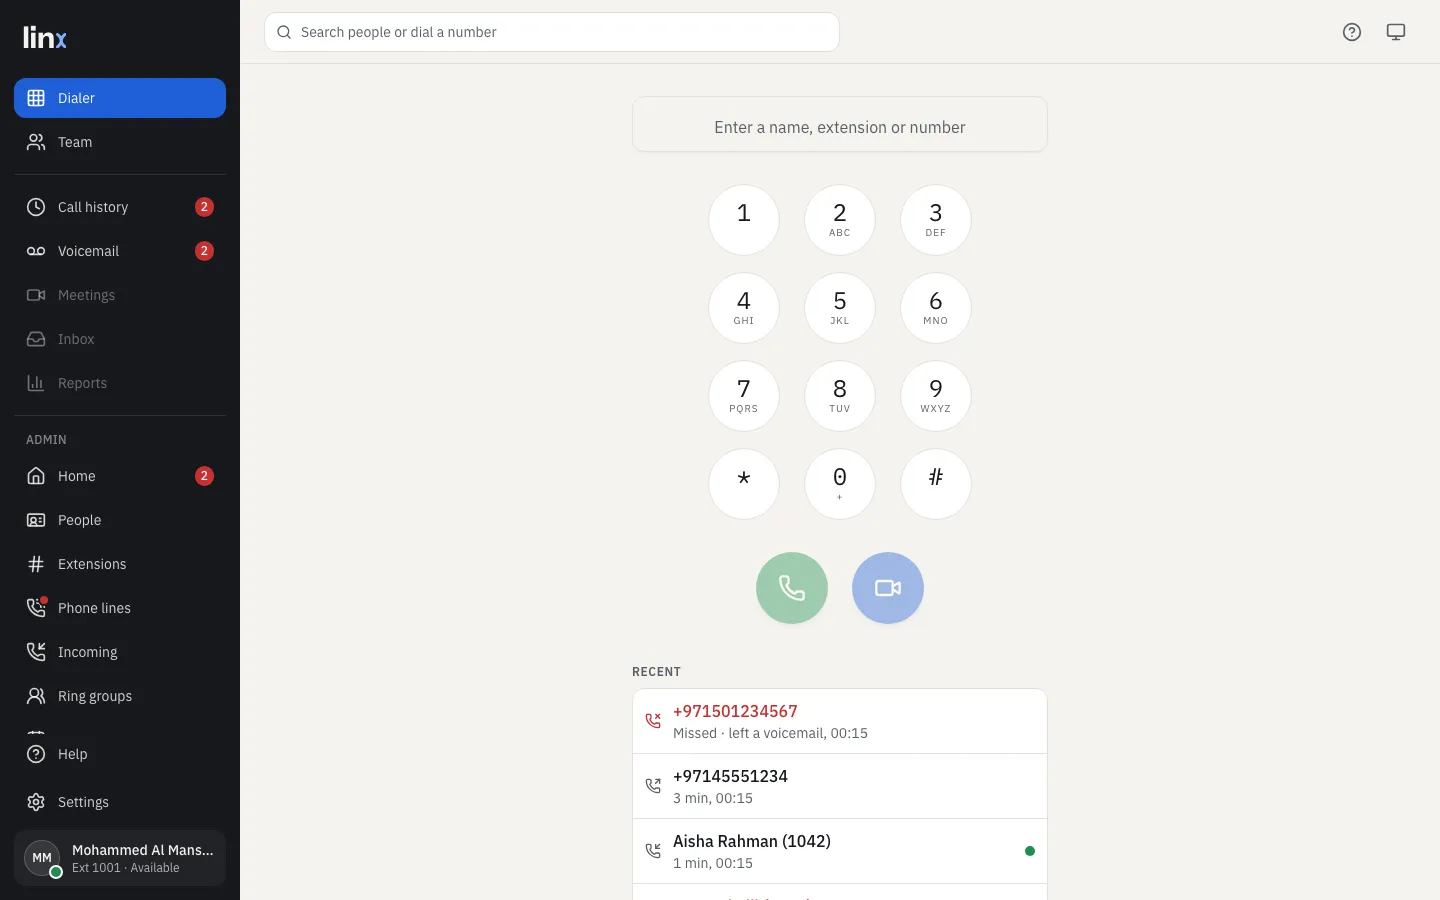
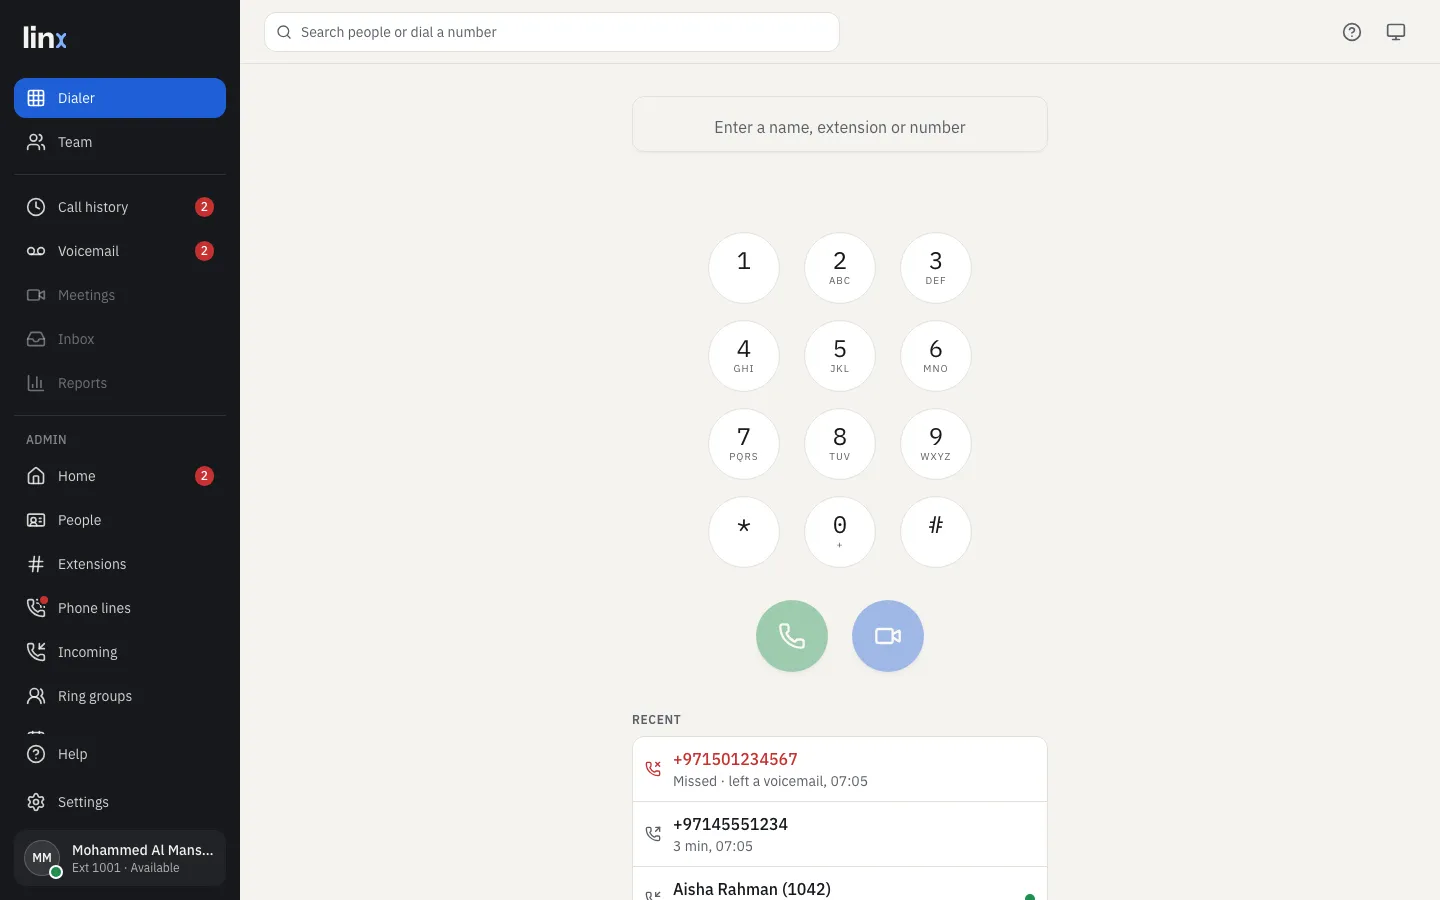
Dialer: matches no longer push the keypad down
The best match has a one-row slot of its own under the number; any
others are listed under the call buttons. The screens suite checks the
keypad doesn't move while matches appear.

Claude-Session: https://claude.ai/code/session_01EoSCBWDKWy6VASLQMKqTyy

diff --git a/web/src/screens/Dialer.tsx b/web/src/screens/Dialer.tsx
@@ -48,6 +48,7 @@ export function DialerScreen({ members, stamp }: { members: TeamMember[] | null;
     }
     setValue("");
   };
+  const callMatch = (m: TeamMember) => { line.call(m.extension, m.name); setValue(""); };
 
   return (
     <div className="mx-auto flex w-full max-w-md flex-col items-center px-4 py-8">
@@ -64,25 +65,14 @@ export function DialerScreen({ members, stamp }: { members: TeamMember[] | null;
             </button>
           )}
         </div>
-        {matches.length > 0 && (
-          <ul className="mt-2 overflow-hidden rounded-md border bg-card" aria-label="Matching people">
-            {matches.map((m) => (
-              <li key={m.extension}>
-                <button type="button" disabled={!canCall} onClick={() => { line.call(m.extension, m.name); setValue(""); }}
-                  className="flex w-full items-center gap-3 px-3 py-2 text-start hover:bg-background disabled:opacity-50">
-                  <Avatar name={m.name} status={m.status} />
-                  <span className="min-w-0 flex-1">
-                    <span className="block truncate font-medium">{m.name}</span>
-                    <span className="block text-sm text-muted-foreground">Ext <span className="font-mono">{m.extension}</span> · {statusLabel[m.status]}</span>
-                  </span>
-                  <Phone aria-hidden="true" className="size-4 text-call" />
-                </button>
-              </li>
-            ))}
-          </ul>
-        )}
+        {/* One row, always the same height, so the keypad below never moves
+            while matches come and go (owner, 2026-10-17): the best match here,
+            any others under the call buttons. */}
+        <div className="mt-2 h-14">
+          {matches[0] && <MatchList matches={matches.slice(0, 1)} canCall={canCall} onCall={callMatch} />}
+        </div>
       </form>
-      <div className="mt-8">
+      <div className="mt-4">
         <Keypad onKey={(k) => setValue((v) => v + k)} />
       </div>
       {/* Call in green, Video call in Cobalt (owner, 2026-10-12). A video
@@ -97,6 +87,11 @@ export function DialerScreen({ members, stamp }: { members: TeamMember[] | null;
           <Video className="size-7" />
         </button>
       </div>
+      {matches.length > 1 && (
+        <div className="mt-6 w-full">
+          <MatchList matches={matches.slice(1)} canCall={canCall} onCall={callMatch} label="More matching people" />
+        </div>
+      )}
 
       <section className="mt-10 w-full" aria-labelledby="recent-title">
         <h2 id="recent-title" className="text-xs font-semibold tracking-wider text-muted-foreground uppercase">Recent</h2>
@@ -133,5 +128,27 @@ export function DialerScreen({ members, stamp }: { members: TeamMember[] | null;
         </button>
       </section>
     </div>
+  );
+}
+
+function MatchList({ matches, canCall, onCall, label = "Matching people" }: {
+  matches: TeamMember[]; canCall: boolean; onCall: (m: TeamMember) => void; label?: string;
+}) {
+  return (
+    <ul className="divide-y overflow-hidden rounded-md border bg-card" aria-label={label}>
+      {matches.map((m) => (
+        <li key={m.extension}>
+          <button type="button" disabled={!canCall} onClick={() => onCall(m)}
+            className="flex h-14 w-full items-center gap-3 px-3 text-start hover:bg-background disabled:opacity-50">
+            <Avatar name={m.name} status={m.status} />
+            <span className="min-w-0 flex-1">
+              <span className="block truncate font-medium">{m.name}</span>
+              <span className="block truncate text-sm text-muted-foreground">Ext <span className="font-mono">{m.extension}</span> · {statusLabel[m.status]}</span>
+            </span>
+            <Phone aria-hidden="true" className="size-4 text-call" />
+          </button>
+        </li>
+      ))}
+    </ul>
   );
 }

diff --git a/web/e2e/screens.spec.ts b/web/e2e/screens.spec.ts
@@ -1153,6 +1153,17 @@ for (const scheme of ["light", "dark"] as const) {
       await expect(page.getByRole("button", { name: "Call", exact: true })).toBeVisible();
       await shot(page, `${scheme}-dialer`);
 
+      // Matches come and go as a number is typed, and the keypad stays put
+      // (owner, 2026-10-17): nobody has to scroll to reach the next key.
+      const one = page.getByRole("group", { name: "Keypad" }).getByRole("button", { name: "1", exact: true });
+      const before = await one.boundingBox();
+      await page.getByLabel("Name, extension or number").fill("10");
+      await expect(page.getByRole("list", { name: "Matching people", exact: true })).toBeVisible();
+      await expect(page.getByRole("list", { name: "More matching people" })).toBeVisible();
+      expect(await one.boundingBox()).toEqual(before);
+      await shot(page, `${scheme}-dialer-matching`);
+      await page.getByLabel("Name, extension or number").fill("");
+
       await page.getByLabel("Search people or dial a number").fill("Aisha");
       await shot(page, `${scheme}-search`);
       await page.getByRole("button", { name: /Aisha Rahman/ }).first().click();
